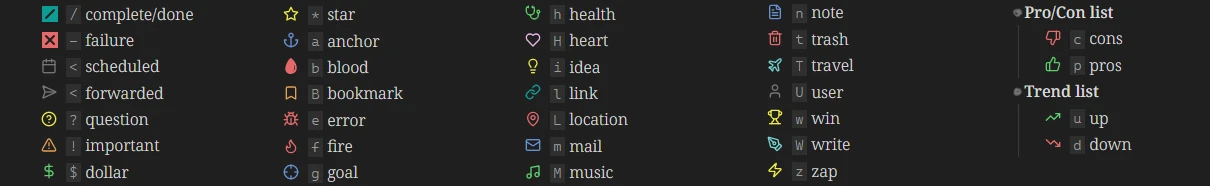
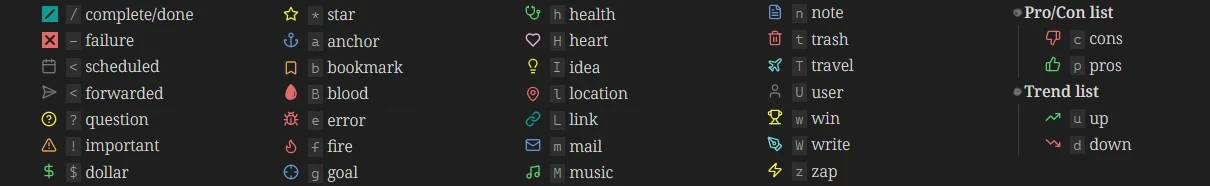
Update doc for the alternate checkboxes

diff --git a/docs/docs/lists/tasks.md b/docs/docs/lists/tasks.md
@@ -27,6 +27,47 @@ The checkboxes style can be chosen in the Style Settings plugin, under `Fancy-a-
 
 [![]({% link images/lists/alternate-doodle-checkboxes.webp %}){: width="250" }]({% link images/lists/alternate-doodle-checkboxes.webp %})
 
+```markdown
+- [ ] Incomplete `- [ ]`
+- [x] Complete / Done `- [x]`
+- [/] complete/done `- [/]`
+- [-] Canceled `- [-]`
+- [<] Scheduled `- [<]`
+- [>] Forwarded `- [>]`
+- [?] Question `- [?]`
+- [!] Important `- [!]`
+- [$] Dollar `- [$]`
+- [*] Star `- [*]`
+- [a] Anchor `- [a]`
+- [b] Bookmark `- [b]`
+- [B] Blood `- [B]`
+- [e] Error `- [e]`
+- [f] Fire `- [f]`
+- [g] Goal `- [g]`
+- [h] Health `- [h]`
+- [H] Heart `- [H]`
+- [I] Idea `- [I]`
+- [l] Location `- [l]`
+- [L] Link `- [L]`
+- [m] Mail `- [m]`
+- [M] Music `- [M]`
+- [n] Note `- [n]`
+- [t] Trash `- [t]`
+- [T] Travel `- [T]`
+- [U] User `- [U]`
+- [w] Win `- [w]`
+- [W] Write `- [W]`
+- [z] Zap `- [z]`
+
+**Pro / Con List:**
+- [p] Pros `- [p]`
+- [c] Cons `- [c]`
+
+**Trend List:**
+- [u] Up `- [u]`
+- [d] Down `- [d]`
+```
+
 {: .note}
 The alternative checkboxes can be disabled/changed in the Style Settings plugin, under `Fancy-a-story > Features > Alternative checkbox`.
 

diff --git a/README.md b/README.md
@@ -62,7 +62,7 @@ Screenshots
 
 ![](screenshots/screenshot-lists.webp)
 
-![](screenshots/task%20list%20icons.png)
+![](screenshots/alternate-doodle-icons.webp)
 
 You can choose from different predefined color schemes, or pick your own because I'm not so good at finding good palettes.
 
